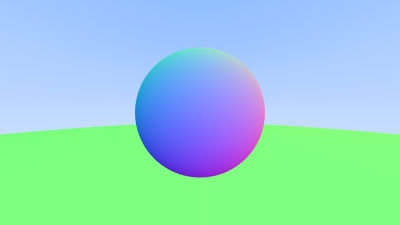
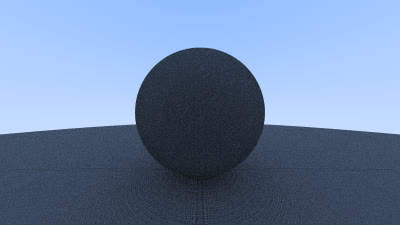
随机向量与漫反射材质

diff --git a/MyRayTracer/src/Vector.h b/MyRayTracer/src/Vector.h
@@ -45,6 +45,10 @@ struct vec3
 		float length = norm();
 		return vec3(x / length, y / length, z / length);
 	}
+
+	static vec3 Random() { return vec3(randomFloat(), randomFloat(), randomFloat()); }
+	static vec3 Random(float min, float max) { return vec3(randomFloat(min, max), randomFloat(min, max), randomFloat(min, max)); }
+
 };
 
 inline vec3 operator*(float k, const vec3& v) { return vec3(k * v.x, k * v.y, k * v.z); }
@@ -54,3 +58,19 @@ inline std::ostream& operator<<(std::ostream& out, const vec3& v) {
 
 inline float dot(const vec3& a, const vec3& b) { return a.x * b.x + a.y * b.y + a.z * b.z; }
 inline vec3 cross(const vec3& a, const vec3& b) { return vec3(a.y * b.z - a.z * b.y, a.z * b.x - a.x * b.z, a.x * b.y - a.y * b.x); }
+
+inline vec3 randomUnit() {
+	while (true) {
+		vec3 p = vec3::Random(-1.0f, 1.0f);
+		float lensq = p.norm2();
+		if (1e-160 < lensq && lensq <= 1)
+			return p / sqrtf(lensq);
+	}
+}
+
+inline vec3 randomOnHemisphere(const vec3& normal) {
+	vec3 onUnitSphere = randomUnit();
+	if (dot(onUnitSphere, normal) > 0.0f) // In the same hemisphere as the normal
+		return onUnitSphere;
+	return -onUnitSphere;
+}

diff --git a/MyRayTracer/src/Camera.h b/MyRayTracer/src/Camera.h
@@ -83,7 +83,8 @@ private:
 	color castRay(const Ray& ray, const Hittable& world) const {
 		HitPayload payload;
 		if (world.hit(ray, Interval(0.0f, infinity), payload)) {
-			return 0.5f * (payload.normal + color(1.0f));
+			vec3 dir = randomOnHemisphere(payload.normal);
+			return 0.5f * castRay(Ray(payload.p, dir), world);
 		}
 
 		vec3 unit_dir = ray.GetDirection().normalized();
